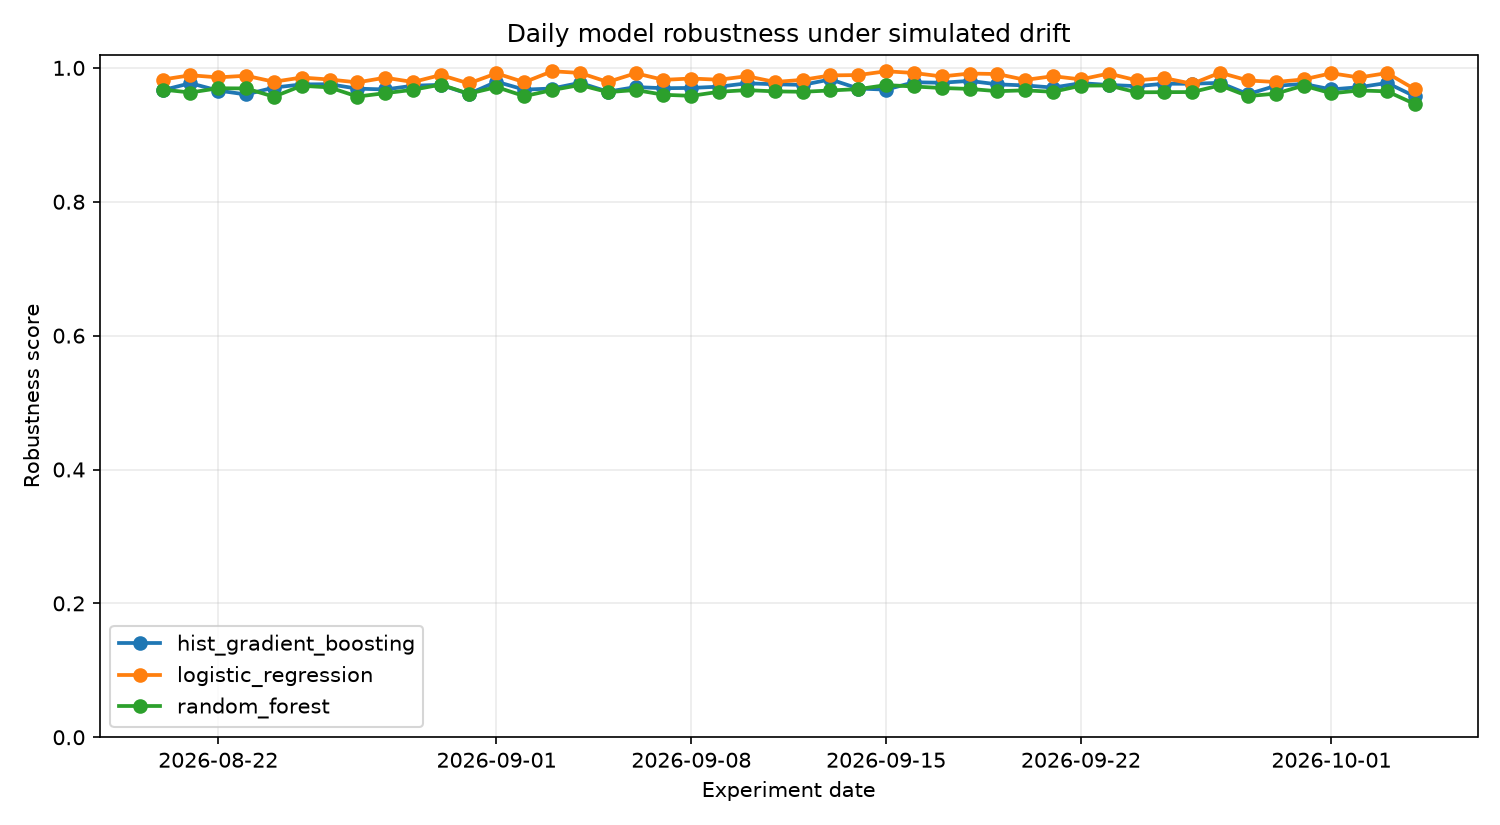
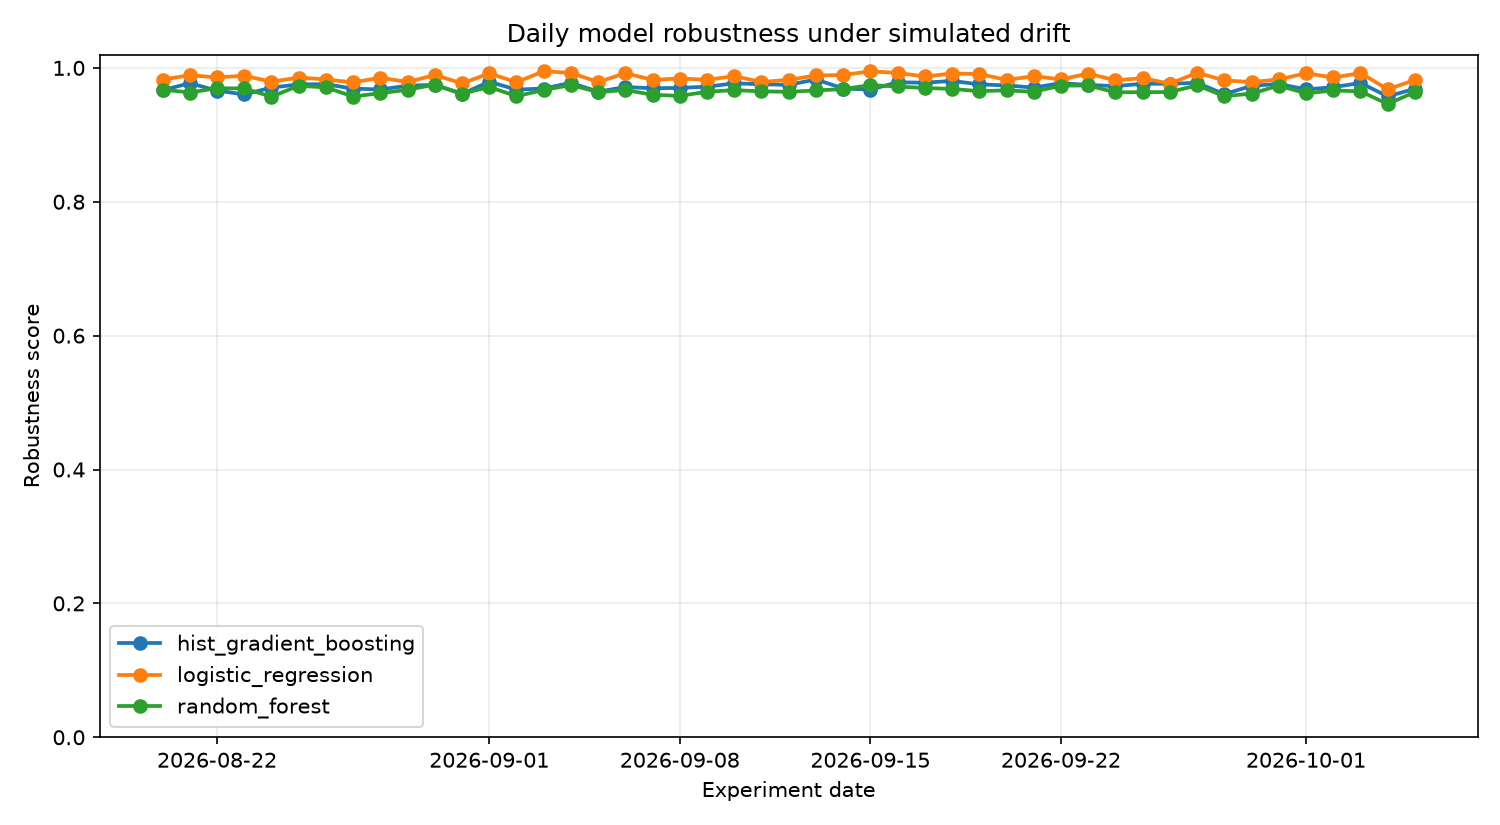
chore(observatory): daily drift benchmark 2026-10-05

diff --git a/reports/latest.md b/reports/latest.md
@@ -1,37 +1,37 @@
 # Latest DriftWatch Report
 
-**Experiment date:** 2026-10-04
+**Experiment date:** 2026-10-05
 
 ## Drift scenario
 
-- Drift strength: `0.364`
-- Scale factor: `1.036`
-- Noise ratio: `0.069`
-- Mask ratio: `0.018`
-- Affected features: mean perimeter, mean concave points, smoothness error, worst radius, worst perimeter, worst area, worst symmetry
+- Drift strength: `0.347`
+- Scale factor: `1.035`
+- Noise ratio: `0.067`
+- Mask ratio: `0.017`
+- Affected features: mean symmetry, concavity error, fractal dimension error, worst perimeter, worst smoothness, worst compactness, worst fractal dimension
 
 ## Model ranking
 
 | Rank | Model | Robustness | ROC-AUC | F1 | Balanced Acc. | Log Loss | Brier |
 |---:|---|---:|---:|---:|---:|---:|---:|
-| 1 | `logistic_regression` | 0.9680 | 0.9984 | 0.9463 | 0.9455 | 0.1345 | 0.0434 |
-| 2 | `hist_gradient_boosting` | 0.9574 | 0.9895 | 0.9360 | 0.9361 | 0.2283 | 0.0638 |
-| 3 | `random_forest` | 0.9460 | 0.9869 | 0.9154 | 0.9143 | 0.1949 | 0.0620 |
+| 1 | `logistic_regression` | 0.9819 | 0.9977 | 0.9714 | 0.9688 | 0.0835 | 0.0236 |
+| 2 | `hist_gradient_boosting` | 0.9689 | 0.9909 | 0.9577 | 0.9454 | 0.1246 | 0.0391 |
+| 3 | `random_forest` | 0.9639 | 0.9896 | 0.9469 | 0.9423 | 0.1543 | 0.0448 |
 
 ## Highest feature drift (PSI)
 
 | Feature | PSI |
 |---|---:|
-| worst area | 0.4979 |
-| mean concave points | 0.3934 |
-| smoothness error | 0.2390 |
-| mean perimeter | 0.2192 |
-| worst radius | 0.2145 |
-| worst perimeter | 0.1937 |
-| texture error | 0.1780 |
-| fractal dimension error | 0.1771 |
+| fractal dimension error | 1.6144 |
+| concavity error | 0.4985 |
+| worst compactness | 0.3490 |
+| worst fractal dimension | 0.2481 |
+| texture error | 0.2473 |
+| mean symmetry | 0.2078 |
+| worst perimeter | 0.1793 |
+| perimeter error | 0.1741 |
 
-**Mean PSI:** `0.1277`  
-**Max PSI:** `0.4979`
+**Mean PSI:** `0.1737`  
+**Max PSI:** `1.6144`
 
 _Generated automatically by the DriftWatch daily observatory pipeline._
